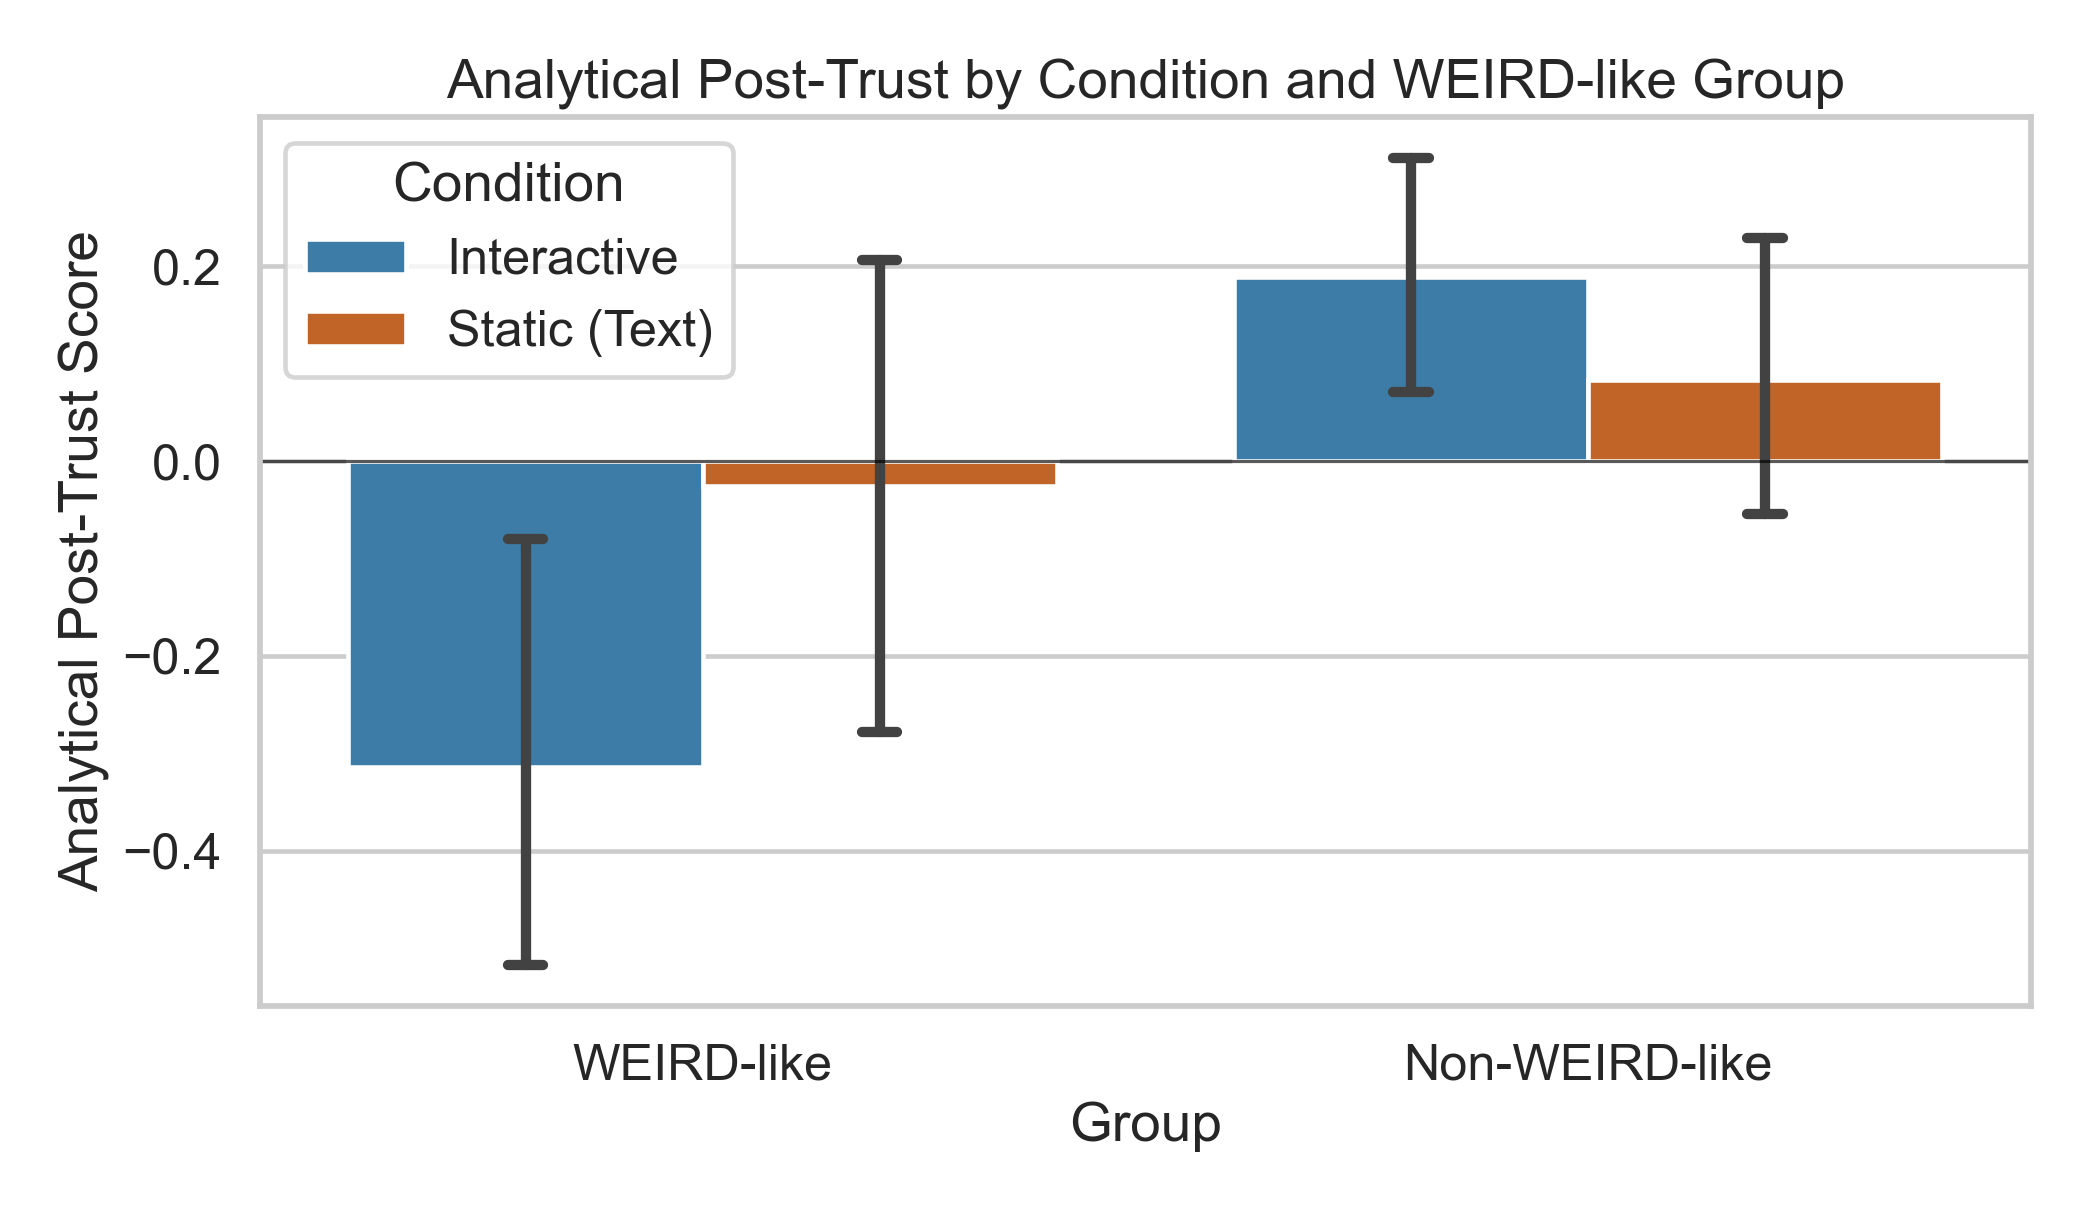
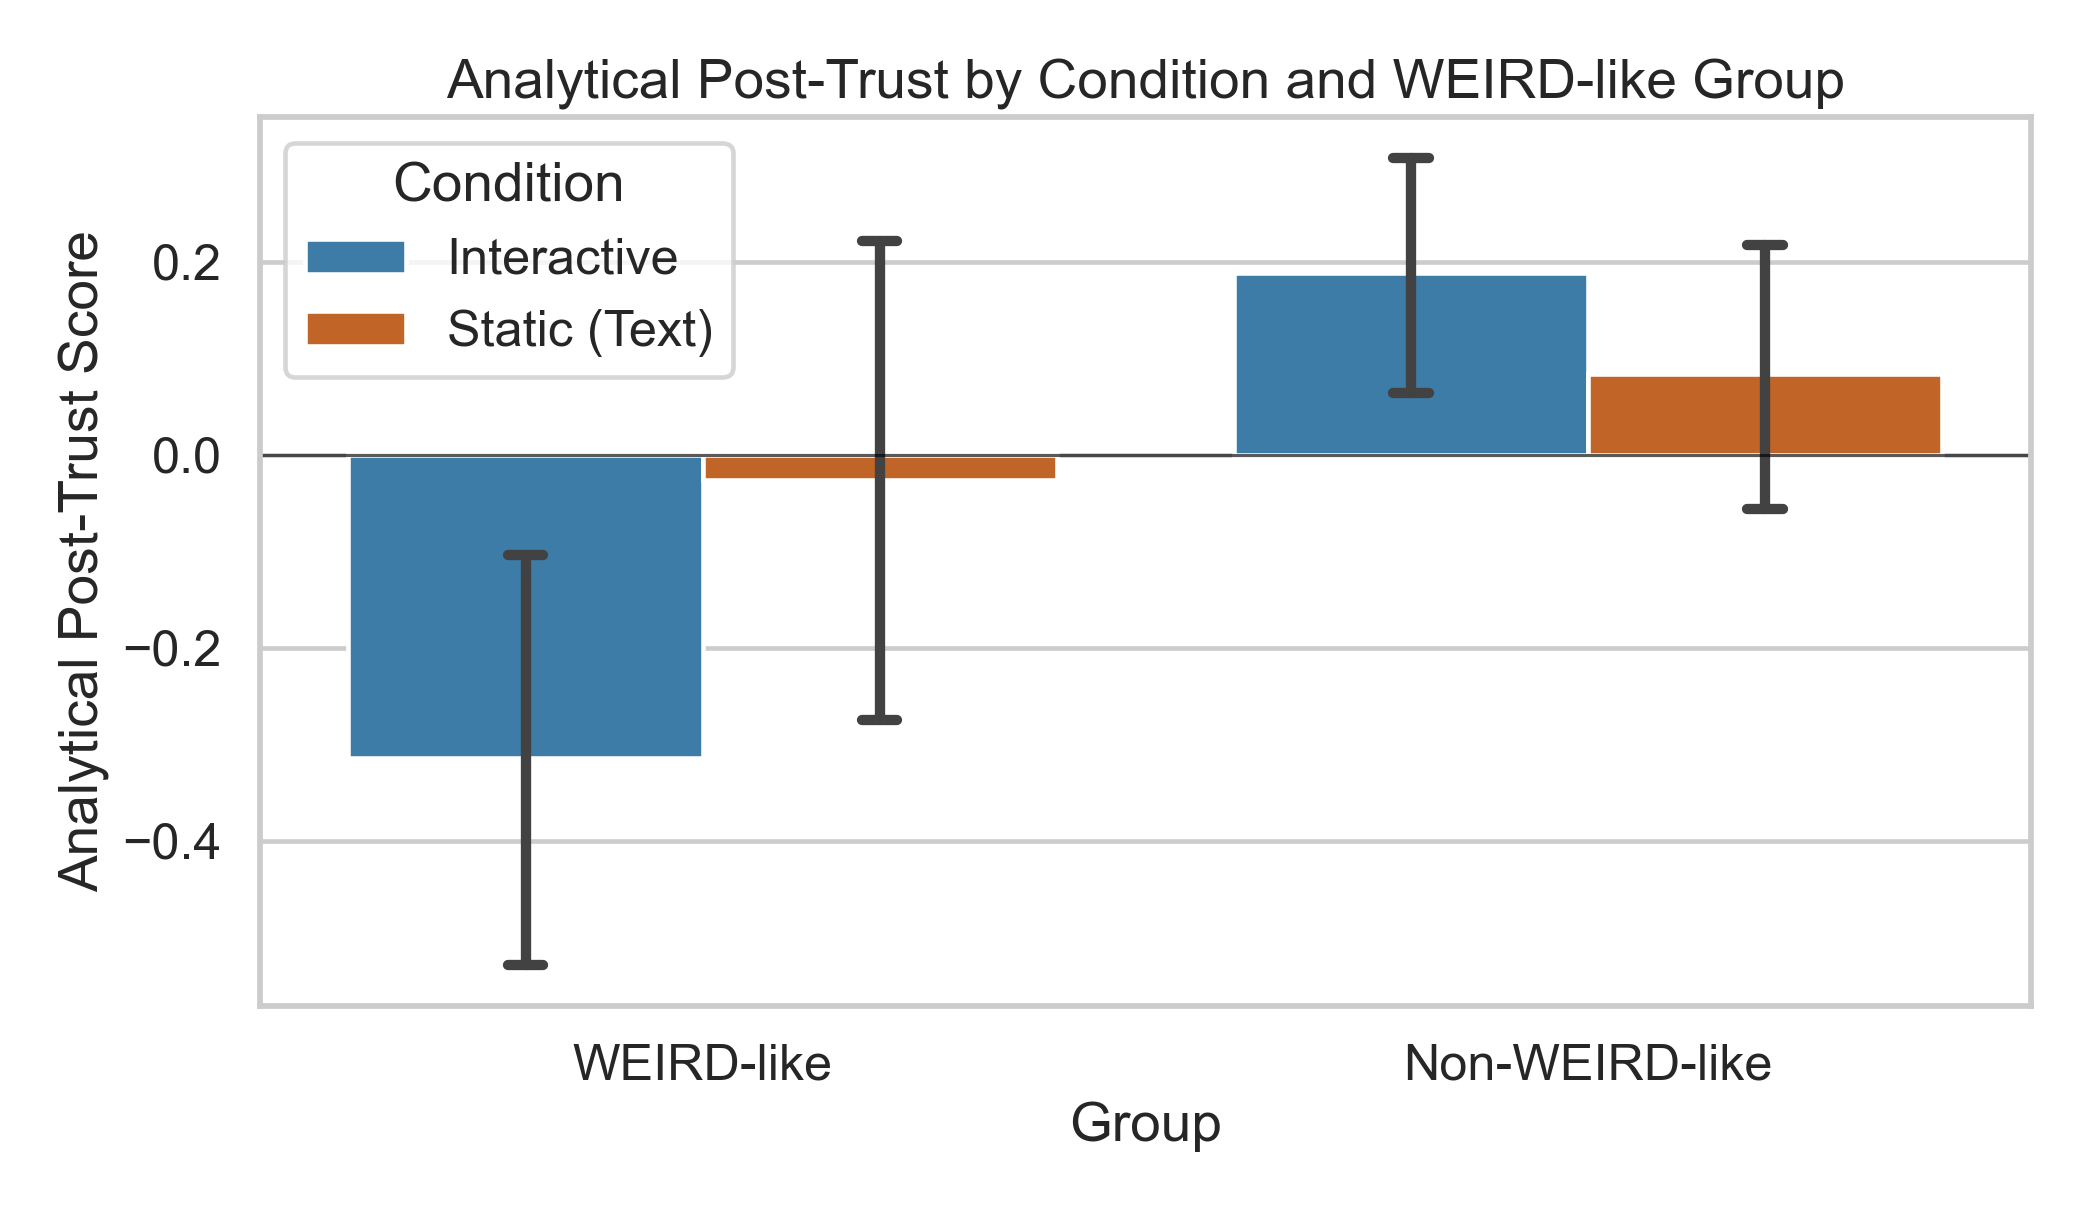
adding figures

diff --git a/scripts/generate_preliminary_weird_report.py b/scripts/generate_preliminary_weird_report.py
@@ -5,8 +5,11 @@ Generate a preliminary WEIRD-vs-condition trust report with plots.
 Outputs:
 - figures/prelim_emotional_change_by_weird_condition.png
 - figures/prelim_analytical_post_by_weird_condition.png
+- figures/prelim_analytical_vs_emotional_trust_difference_by_weird_condition.png
 - figures/preliminary_weird_summary.csv
+- figures/preliminary_weird_analytical_vs_emotional_trust_difference_summary.csv
 - report.md
+- report_prelim_analytical_vs_emotional_trust_difference.md
 """
 from __future__ import annotations
 
@@ -31,6 +34,9 @@ SUMMARY_CSV_PATH = FIG_DIR / "preliminary_weird_summary.csv"
 
 EMOTIONAL_FIG_PATH = FIG_DIR / "prelim_emotional_change_by_weird_condition.png"
 ANALYTICAL_FIG_PATH = FIG_DIR / "prelim_analytical_post_by_weird_condition.png"
+DIFFERENCE_FIG_PATH = FIG_DIR / "prelim_analytical_vs_emotional_trust_difference_by_weird_condition.png"
+DIFFERENCE_SUMMARY_CSV_PATH = FIG_DIR / "preliminary_weird_analytical_vs_emotional_trust_difference_summary.csv"
+DIFFERENCE_REPORT_PATH = ROOT / "report_prelim_analytical_vs_emotional_trust_difference.md"
 
 CONDITION_INTERACTIVE = "Interactive"
 CONDITION_STATIC = "Static (Text)"
@@ -118,6 +124,14 @@ def map_emotional_token(series: pd.Series) -> pd.Series:
 
 def mean_of_available(series_list: list[pd.Series]) -> pd.Series:
     return pd.concat(series_list, axis=1).mean(axis=1)
+
+
+def zscore_series(series: pd.Series) -> pd.Series:
+    mean = float(series.mean())
+    std = float(series.std(ddof=0))
+    if np.isclose(std, 0.0):
+        return pd.Series(0.0, index=series.index, dtype=float)
+    return ((series - mean) / std).astype(float)
 
 
 def build_analysis_frame(df: pd.DataFrame) -> pd.DataFrame:
@@ -395,11 +409,22 @@ def main() -> None:
 
     analysis = analysis.dropna(subset=["emotional_change", "analytical_post", "Condition", "WEIRD Group", "weird_like"])
 
+    analysis["analytical_post_norm"] = zscore_series(analysis["analytical_post"])
+    analysis["emotional_change_norm"] = zscore_series(analysis["emotional_change"])
+    analysis["analytical_vs_emotional_trust_difference"] = (
+        analysis["analytical_post_norm"] - analysis["emotional_change_norm"]
+    )
+
     emotional_tests = welch_condition_tests(analysis, "emotional_change")
     analytical_tests = welch_condition_tests(analysis, "analytical_post")
+    difference_tests = welch_condition_tests(analysis, "analytical_vs_emotional_trust_difference")
 
     emotional_did, emotional_interaction_p = interaction_permutation_test(analysis, "emotional_change")
     analytical_did, analytical_interaction_p = interaction_permutation_test(analysis, "analytical_post")
+    difference_did, difference_interaction_p = interaction_permutation_test(
+        analysis,
+        "analytical_vs_emotional_trust_difference",
+    )
 
     plot_metric(
         analysis,
@@ -417,6 +442,14 @@ def main() -> None:
         output_path=ANALYTICAL_FIG_PATH,
         draw_zero_line=True,
     )
+    plot_metric(
+        analysis,
+        metric="analytical_vs_emotional_trust_difference",
+        title="analytical vs emotional trust difference",
+        y_label="analytical vs emotional trust difference",
+        output_path=DIFFERENCE_FIG_PATH,
+        draw_zero_line=True,
+    )
 
     summary_df = pd.concat(
         [
@@ -427,6 +460,13 @@ def main() -> None:
     )
     SUMMARY_CSV_PATH.parent.mkdir(parents=True, exist_ok=True)
     summary_df.to_csv(SUMMARY_CSV_PATH, index=False)
+
+    difference_summary_df = build_summary_table(
+        analysis,
+        "analytical_vs_emotional_trust_difference",
+        "analytical vs emotional trust difference",
+    )
+    difference_summary_df.to_csv(DIFFERENCE_SUMMARY_CSV_PATH, index=False)
 
     weird_counts = (
         analysis.groupby(["WEIRD Group", "Condition"]).size().reset_index(name="n").sort_values(["WEIRD Group", "Condition"])
@@ -530,10 +570,77 @@ def main() -> None:
 
     REPORT_PATH.write_text("\n".join(report_lines) + "\n", encoding="utf-8")
 
+    difference_key_results = pd.DataFrame(
+        [
+            {
+                "Metric": "analytical vs emotional trust difference",
+                "Interaction (Diff-in-Diff)": difference_did,
+                "Permutation p": difference_interaction_p,
+            }
+        ]
+    )
+
+    difference_report_lines = [
+        "# Preliminary Version: analytical vs emotional trust difference",
+        "",
+        f"Generated on {date.today().isoformat()} from `data/Combined.csv`.",
+        "",
+        "This version only shows one combined metric for the 4 bars (WEIRD-like x Condition):",
+        "",
+        "- `analytical_post_norm`: z-score normalized analytical post-trust",
+        "- `emotional_change_norm`: z-score normalized emotional trust change (post - pre)",
+        "- `analytical vs emotional trust difference` = `analytical_post_norm - emotional_change_norm`",
+        "",
+        "## Sample Sizes",
+        "",
+        to_markdown_table(weird_counts),
+        "",
+        "## Interaction Result",
+        "",
+        to_markdown_table(
+            difference_key_results.assign(
+                **{
+                    "Permutation p": difference_key_results["Permutation p"].map(format_p_value),
+                }
+            ),
+            float_columns=["Interaction (Diff-in-Diff)"],
+            precision=3,
+        ),
+        "",
+        "## Figure",
+        "",
+        "![analytical vs emotional trust difference](figures/prelim_analytical_vs_emotional_trust_difference_by_weird_condition.png)",
+        "",
+        "## Welch Tests (Interactive vs Static within each group)",
+        "",
+        to_markdown_table(
+            difference_tests.assign(
+                **{
+                    "p": difference_tests["p"].map(format_p_value),
+                }
+            ),
+            float_columns=[
+                "Interactive Mean",
+                "Static Mean",
+                "Mean Difference (Interactive - Static)",
+                "Welch t",
+                "Cohen d",
+            ],
+            precision=3,
+        ),
+        "",
+        "A reproducible numeric summary was saved to `figures/preliminary_weird_analytical_vs_emotional_trust_difference_summary.csv`.",
+    ]
+
+    DIFFERENCE_REPORT_PATH.write_text("\n".join(difference_report_lines) + "\n", encoding="utf-8")
+
     print(f"Saved report: {REPORT_PATH}")
+    print(f"Saved report: {DIFFERENCE_REPORT_PATH}")
     print(f"Saved figure: {EMOTIONAL_FIG_PATH}")
     print(f"Saved figure: {ANALYTICAL_FIG_PATH}")
+    print(f"Saved figure: {DIFFERENCE_FIG_PATH}")
     print(f"Saved summary CSV: {SUMMARY_CSV_PATH}")
+    print(f"Saved summary CSV: {DIFFERENCE_SUMMARY_CSV_PATH}")
 
 
 if __name__ == "__main__":

diff --git a/report_prelim_analytical_vs_emotional_trust_difference.md b/report_prelim_analytical_vs_emotional_trust_difference.md
@@ -1,0 +1,37 @@
+# Preliminary Version: analytical vs emotional trust difference
+
+Generated on 2026-04-29 from `data/Combined.csv`.
+
+This version only shows one combined metric for the 4 bars (WEIRD-like x Condition):
+
+- `analytical_post_norm`: z-score normalized analytical post-trust
+- `emotional_change_norm`: z-score normalized emotional trust change (post - pre)
+- `analytical vs emotional trust difference` = `analytical_post_norm - emotional_change_norm`
+
+## Sample Sizes
+
+| WEIRD Group | Condition | n |
+| --- | --- | --- |
+| Non-WEIRD-like | Interactive | 192 |
+| Non-WEIRD-like | Static (Text) | 192 |
+| WEIRD-like | Interactive | 60 |
+| WEIRD-like | Static (Text) | 60 |
+
+## Interaction Result
+
+| Metric | Interaction (Diff-in-Diff) | Permutation p |
+| --- | --- | --- |
+| analytical vs emotional trust difference | 0.040 | 0.873 |
+
+## Figure
+
+![analytical vs emotional trust difference](figures/prelim_analytical_vs_emotional_trust_difference_by_weird_condition.png)
+
+## Welch Tests (Interactive vs Static within each group)
+
+| Group | n (Interactive) | n (Static) | Interactive Mean | Static Mean | Mean Difference (Interactive - Static) | Welch t | p | Cohen d |
+| --- | --- | --- | --- | --- | --- | --- | --- | --- |
+| WEIRD-like | 60 | 60 | -0.223 | -0.293 | 0.070 | 0.333 | 0.740 | 0.061 |
+| Non-WEIRD-like | 192 | 192 | 0.096 | 0.066 | 0.030 | 0.241 | 0.809 | 0.025 |
+
+A reproducible numeric summary was saved to `figures/preliminary_weird_analytical_vs_emotional_trust_difference_summary.csv`.

diff --git a/report.md b/report.md
@@ -1,6 +1,6 @@
 # Preliminary Trust Analysis: WEIRD-like Background x Condition
 
-Generated on 2026-04-28 from `data/Combined.csv`.
+Generated on 2026-04-29 from `data/Combined.csv`.
 
 ## Research Focus
 
